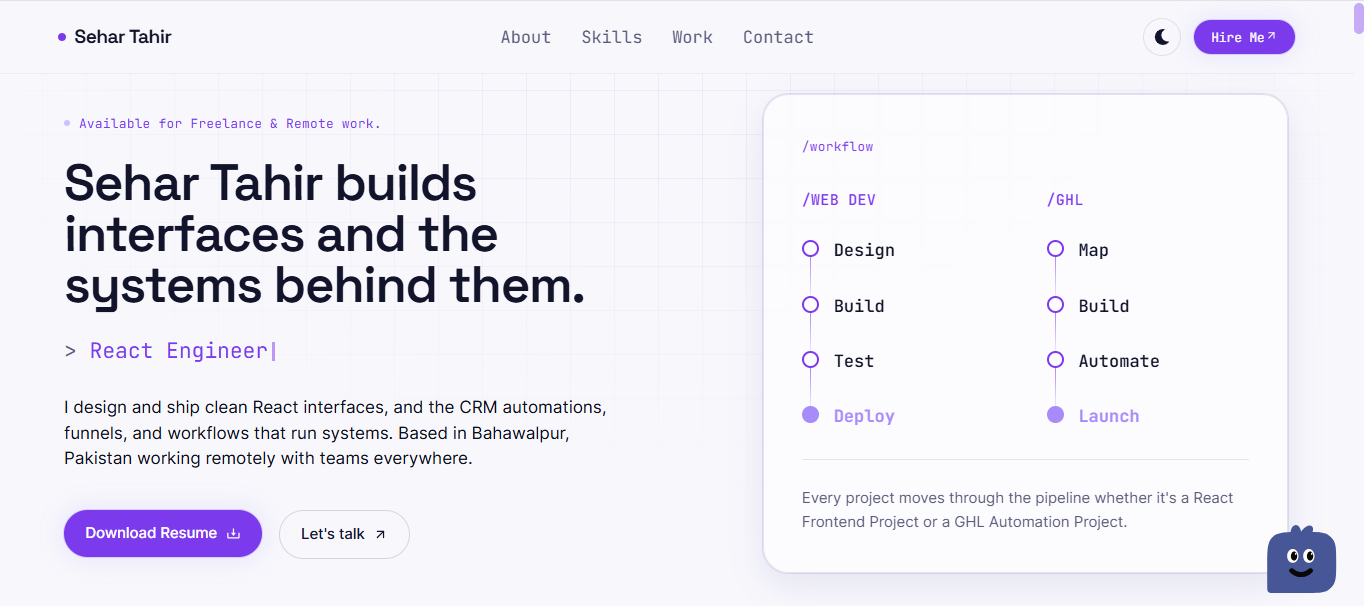
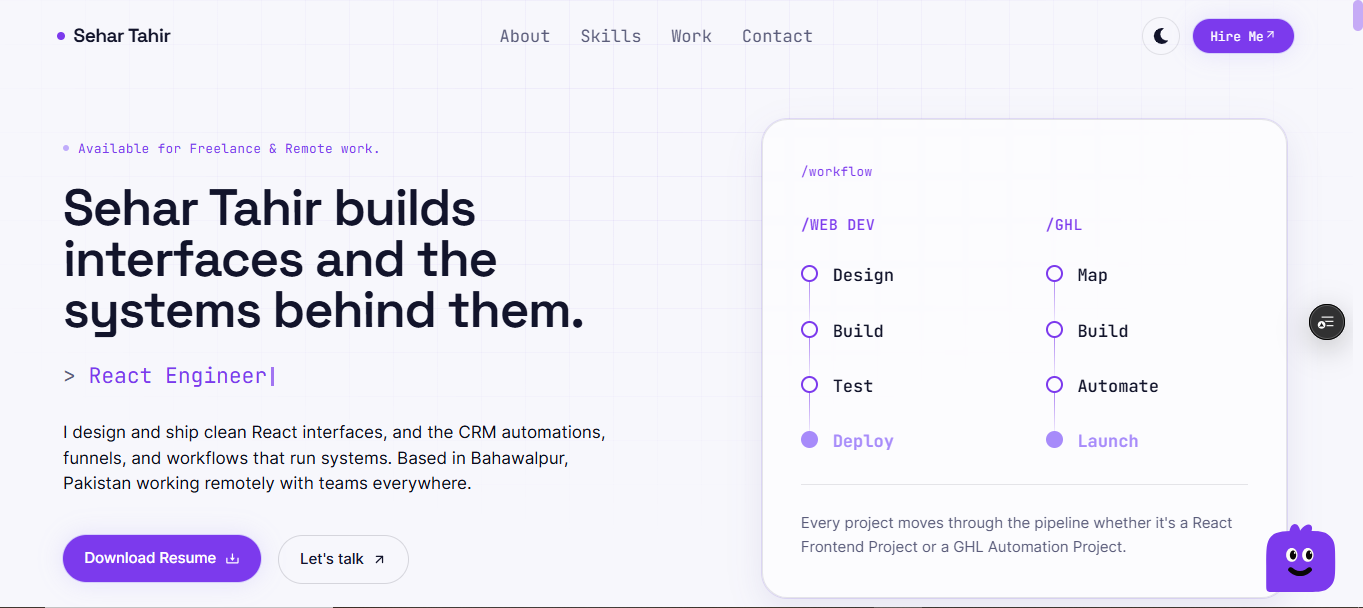
image updated

diff --git a/src/Components/Education/Education.jsx b/src/Components/Education/Education.jsx
@@ -15,7 +15,7 @@ const education = [
   {
     degree: 'Intermediate - Pre Medical',
     org: 'Alpine College, Khanpur',
-    period: '2020 — 2022',
+    period: '2020 - 2022',
     grade: '90.45%',
     desc: 'Completed intermediate education with a strong academic record in the pre-medical group.',
   },